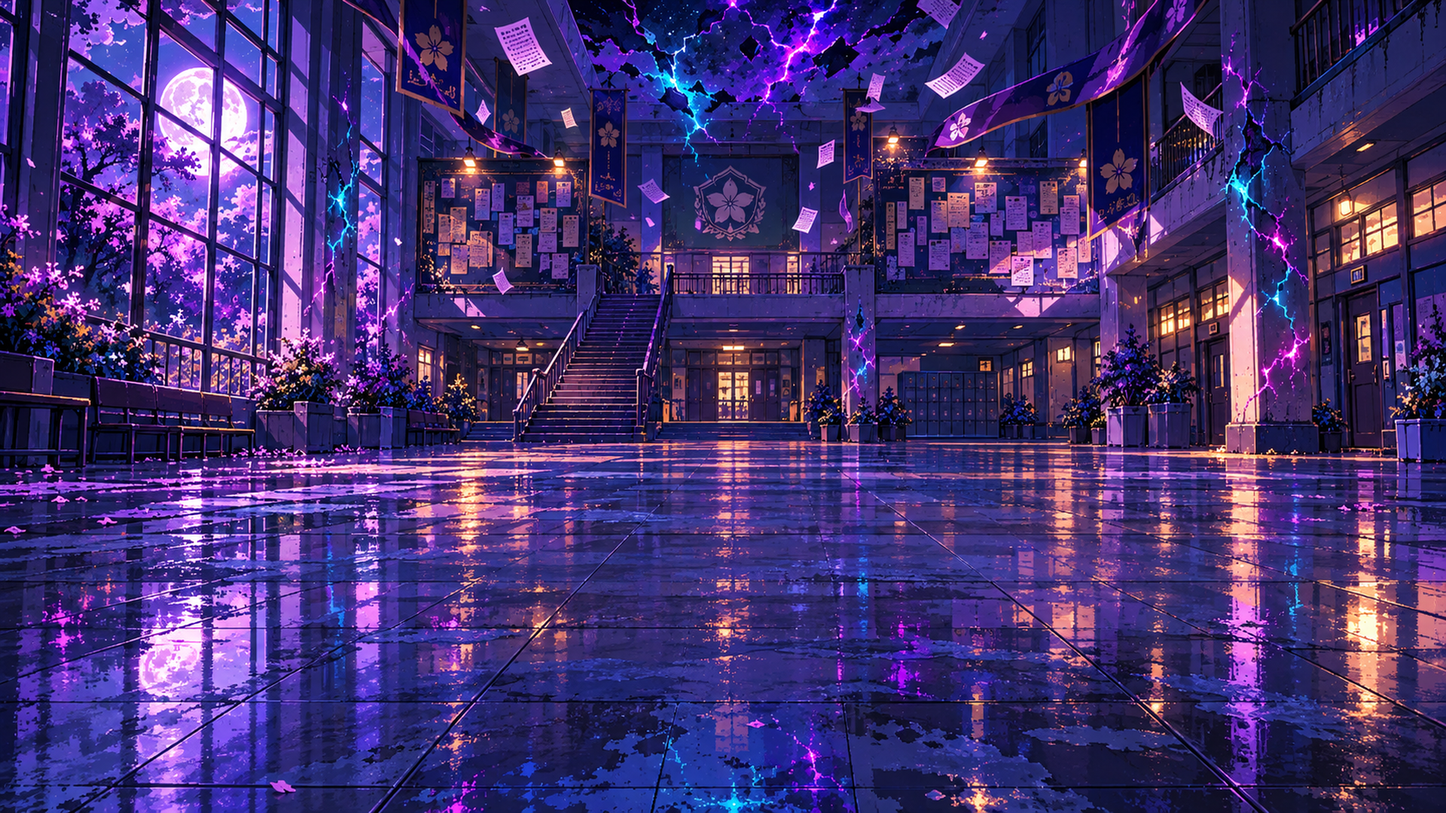
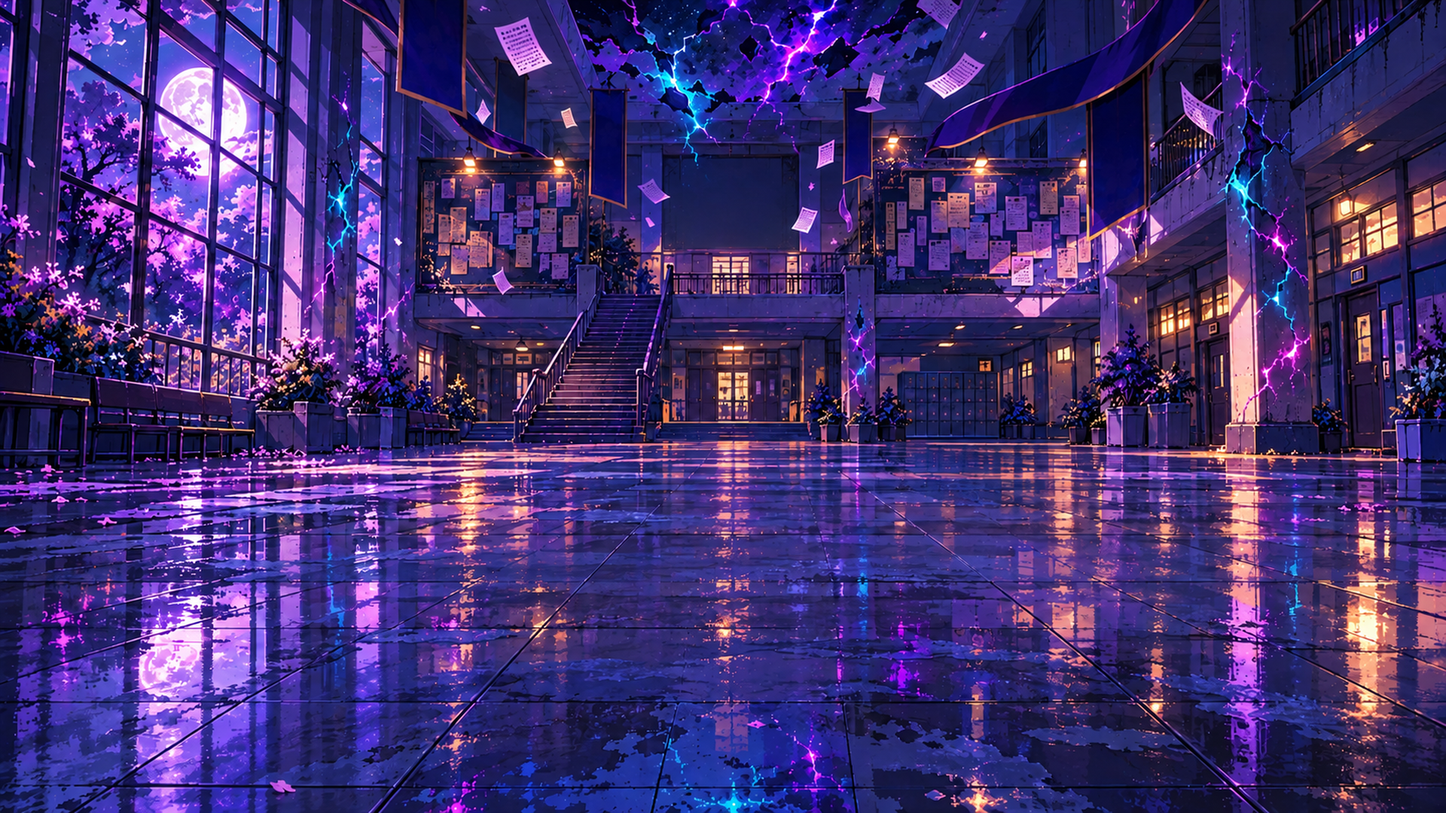
Unify six-petal school crest and polish chapter delivery evidence

diff --git a/tools/verify_chapter_release_smoke.py b/tools/verify_chapter_release_smoke.py
@@ -1,0 +1,27 @@
+"""Final cosmetic revision: actual Retail OS-input smoke for stage 7 or 9.
+Reuses the owned-window input helpers from the full Boss replay driver.
+Does not claim a full campaign or normal-exit test; the full replay records that separately.
+"""
+from pathlib import Path
+import sys
+
+stage = int(sys.argv.pop(sys.argv.index('--stage') + 1)) if '--stage' in sys.argv else 7
+if '--stage' in sys.argv: sys.argv.remove('--stage')
+assert stage in (7, 9)
+source = Path(__file__).with_name('verify_chapter_retail.py').read_text(encoding='utf8')
+prefix = source.split("        time.sleep(2);shot('title')")[0]
+body = '''        time.sleep(2);shot('title');key(13);time.sleep(1.2)
+        click(1545,590);time.sleep(1)
+        click(1180,560) if STAGE==7 else click(280,805)
+        time.sleep(1);shot('briefing');click(1600,1005);time.sleep(2)
+        final=probe();assert final and final['stage']=='1-'+str(STAGE),str(final and final['stage'])
+        shot('battle_final_'+str(STAGE));click(1815,55);time.sleep(.4);shot('pause')
+    finally:
+        if proc.poll() is None:proc.terminate();proc.wait(timeout=10)
+text=(out/'game.log').read_text(encoding='utf8',errors='replace')
+assert 'SCRIPT ERROR' not in text and 'Parse Error' not in text
+report=dict(type='Final Retail cosmetic-revision OS-input smoke; owned process closed by verifier',ok=True,stage=STAGE,pckSha256=hashlib.sha256(exe.with_suffix('.pck').read_bytes()).hexdigest(),finalProbe=final)
+(out/'smoke_report.json').write_text(json.dumps(report,ensure_ascii=False,indent=2),encoding='utf8')
+print(json.dumps({'ok':True,'stage':STAGE,'screenshots':len(captured)}))
+'''
+exec(compile(prefix + body, str(Path(__file__)), 'exec'), dict(__file__=__file__, STAGE=stage))

diff --git a/docs/CHAPTER_ONE_20261011.md b/docs/CHAPTER_ONE_20261011.md
@@ -1,0 +1,52 @@
+# 第一章十关可玩候选版 0.5.0
+
+本轮补齐 1-6～1-10 的战斗、关前关后剧情、场景、角色能力、音乐与章节结束流程。后五关沿用前五关的水平三路、透视部署格侧边、动态六瓣核心和玻璃质感 HUD；没有重新倾斜路线或缩小普通阵容 HUD。最终视觉和听感仍待用户试玩验收，本文不代表审美验收通过。
+
+## 新增内容
+
+| 关卡 | 场景与主要内容 |
+| --- | --- |
+| 1-6 | 保健室；结衣实际范围治疗，治疗与承压配合 |
+| 1-7 | 成绩榜区域；焦虑与比较主题，凛加入可用阵容 |
+| 1-8 | 旧实验楼；纱良特殊伤害、对高防目标增伤及同路范围伤害，临时实验装置 |
+| 1-9 | 档案室；多种残响组合与完美主义主题 |
+| 1-10 | 体育馆异常空间；无名优等生三阶段、预警、阶段音乐、章节结尾 |
+
+每关均有独立背景和实际出怪时间线。新增八首音乐变奏及技能音效；资源已接入真实战斗和剧情事件。背景基于用户提供的视觉圣经生成并保留原始来源。第七关墙面使用项目正式六瓣 SVG 校徽，消除生成背景中五瓣标志的不一致。
+
+Boss 8000 HP，阶段切换替换技能组并清除前阶段预警和减益；第一阶段标准答案与比较，第二阶段焦虑与错题范围攻击，第三阶段排名、召唤和加速。错题有三秒预警，暂停冻结逻辑计时。击败后的动画继续播放，不随胜利判定停在半途。召唤残响计入实际击退数，结算不再以预设敌人数作为击退数量的分母。
+
+千夏为轻音乐部，结尾解锁后可参与重玩，具有团队速度被动和主动节奏增益。最多五名角色同时在场，第六名作为候补；实验装置不占角色人数，但占实际部署格，可受击、撤回和到期消失。培养列表分页、六人编队预览与角色卡、装备目标按钮和剧情档案滚动均已适配六人。
+
+Boss 首通纪念装备“被划掉的满分试卷”通过装备背包领取，实际提供 5% 冷却恢复，不可强化或分解；领取与章节解锁沿用真实存档服务。
+
+## 规格裁决
+
+- 第五、十关采用体育馆，正式校徽统一六瓣。
+- 千夏所属采用 V2.1.4 的轻音乐部，保留已锁定角色事实；概念图中的相冲突文字不作为新设定。
+- 首次第十关使用前五名已解锁角色；千夏在章节结束后加入。测试中第六张卡属于通关后的重玩阵容。
+- Boss 挑战采用规划建议 Lv.9～12；未将 Lv.1 全员直接通关作为验收条件。测试通过实际培养界面消耗已取得的 8000 EXP，将澪、悠真、结衣、纱良培养到 Lv.9，无额外资源发放。
+
+## 验证证据与边界
+
+1. 单元回归：609/609，11087 条断言。覆盖装置占格和过期、治疗、范围伤害、光环、排名目标、千夏增益、Boss 阶段技能替换和预警。测试退出仍有 ObjectDB/资源引用警告，未声称这些退出警告已修复。
+2. 真实 Windows 连续流程：从此前实际打通前五关的隔离存档继续，正常 AP 和正常时间推进 6～10，完成关后剧情、章节结束与千夏解锁。并非本轮重新从新游戏连续打通全部十关。
+3. Windows UI：26/26 项通过，包括六人培养分页、装备领取及重载后属性、唯一装备限制、档案回看不改进度、结尾背景、六人预览、千夏实际部署与技能。
+4. 培养界面：4/4 角色升级检查通过，使用上述流程赚取的资源，未手工修改角色等级或发放货币。
+5. 导出 Retail 实机：提交 e7cf720 对应的 exe/pck，通过实际 Windows 鼠标和键盘完成第十关重玩、暂停重试、部署、强化、三阶段 Boss、结算、返回与正常退出。结算战斗时间 06:28，核心剩余 1/3，角色失能 0。输入由自动化执行，不是人工试玩。报告保留该二进制的 SHA256。
+6. 最终修订只更新第七关背景/正式校徽显示及结算击退数字显示；重新导出后分别验证第七、九关真实 Windows 启动、进入战斗与暂停，并保存最终包哈希。完整 Boss 重玩结果对应上一步的构建，不冒充在最终美术修订后又完整通关一次。
+7. 实际音频：Boss/结尾期间 WASAPI 扬声器回录 20 秒，RMS 0.0789、峰值 0.8584、无削波。系统回录可能包含其他应用声音，不能代替用户听感验收。
+
+证据位于开发工作区 `D:\星丘残响\_testenv\chapter-tail`：`windows_final`、`ui`、`trained`、`retail_final`、`audio_boss`、`release_smoke_7`、`release_smoke_9`。交付包附精选原始实机截图、连续 Boss 帧和机器报告。GIF 是连续截图的预览转换，原始 PNG 保留，不冒充完整实机录像。
+
+## 尚需打磨与未完成验证
+
+人物逐帧像素边缘、武器与发丝细节、部分动作衔接和 Boss 纸张/成绩环的动态层次仍有精修空间；部分静止型单位移动条复用待机姿态。剧情为本轮依据规划补写的版本，音乐与音效仍需要用户实际听感意见。不能据资源接入或测试通过宣称美术 100% 达标。
+
+未在最终同一二进制上从新游戏重新连续通关全部十关；没有完成多种显卡、屏幕比例和多台 Windows 设备的兼容性验证。最终是否保持或超过前五关的审美品质，由用户实际试玩判定。
+
+## 存档与素材
+
+自动化仅使用 `_testenv` 隔离进度。统一启动器保留原包玩家存档，压缩包不携带测试进度。正式 Roaming 存档和备份保持原始哈希。
+
+来源与许可说明随包提供。新背景、角色和敌人资产为基于用户概念参考的 AI 原创输出，原始输出及 SHA256 记录在 `chapter_tail_assets.json`；音频制作和 CC0 采样来源见 `chapter_tail_audio.json` 与授权说明。AI 使用条件记录不构成对任何地区版权资格或无第三方相似性的保证。本轮没有新增付费素材或服务。
